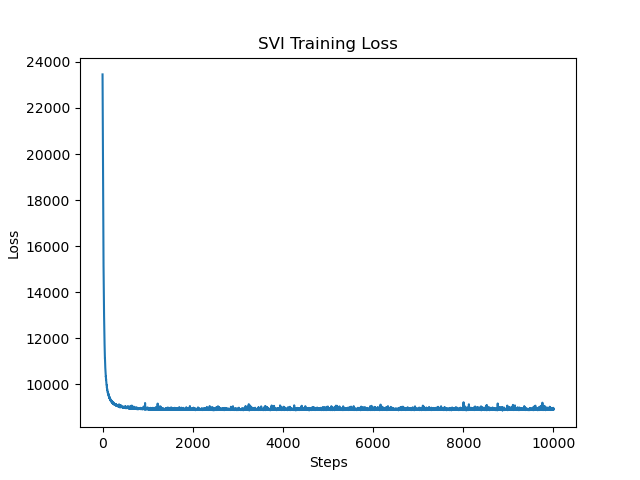
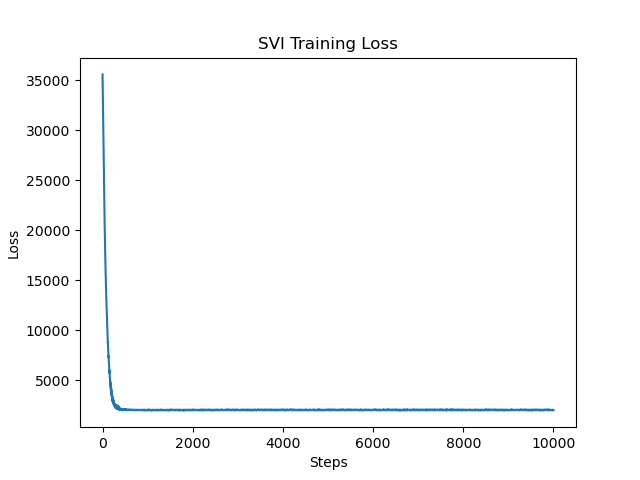
model updated

diff --git a/model.py b/model.py
@@ -19,10 +19,6 @@ from pyro.optim import Adam
 from pyro.infer.autoguide import AutoNormal
 from pyro.infer.autoguide.initialization import init_to_mean, init_to_sample
 
-# LKJcholesky prior for covariance matrix
-# y ~ MVN
-# mu ~ N(0, 1)
-
 
 def probability_function(tumour_content, variant_allele_count, copy_number_state, cancer_cell_fraction):
     """ A function to unify parameters into a probability for observing X number of reads. 
@@ -33,21 +29,13 @@ def probability_function(tumour_content, variant_allele_count, copy_number_state
     Must return a probability (i.e. value between {0, 1})
     """
 
-    # cancer_cell_fraction = cancer_cell_fraction / \
-    #     torch.max(cancer_cell_fraction)
-
     # normal, reference, variant all CN = 2. Our default assumption
-    # copy_number_vector = [2, 2, copy_number_state]
     copy_number_vector = copy_number_state
 
     # this is equivalent to saying, only variant alleles are observed in the variant population
-    # variant_allele_vector = [0, 0, variant_allele_count]
     variant_allele_vector = variant_allele_count
 
     # Pyclone's function
-    c1 = (1-tumour_content)*copy_number_vector
-    c2 = tumour_content*(1-cancer_cell_fraction)*copy_number_vector
-    c3 = tumour_content*cancer_cell_fraction*copy_number_vector
 
     z_constant = (1-tumour_content)*copy_number_vector + \
         tumour_content*(1-cancer_cell_fraction)*copy_number_vector + \
@@ -113,6 +101,14 @@ def model(data):
             "mu", dist.Normal(0, 1))
         
         cluster_means = torch.special.expit(cluster_means)
+        
+        # # for a beta distribution, a gamma prior works. with 0.01, 0.01 makes it uninformative 
+        # # the support for gamma is strictly > 0
+        # beta_alpha = pyro.sample("alpha", dist.Normal(0, 1))
+        # beta_beta = pyro.sample("beta", dist.Normal(0, 1))
+        
+        # beta_alpha = torch.special.expit(beta_alpha)
+        # beta_beta = torch.special.expit(beta_beta)
 
     # -------------------------------------------------------------------------------------------
 
@@ -142,6 +138,11 @@ def model(data):
 
         # using expit, convert normal output to value between [0, 1] since CCF is necessarily a proportion
         cancer_cell_fraction = torch.special.expit(cancer_cell_fraction)
+        
+        
+        # # Model CCF with a beta distribution (its support is [0, 1])
+        # cancer_cell_fraction = pyro.sample("CCF", dist.Beta(beta_alpha[cluster_assignment], beta_beta[cluster_assignment]))
+        
 
         ############# Observed values with NO PRIORS ##############
         # Genotype Values ---------------------
@@ -250,11 +251,11 @@ def main():
     # K clusters
     K = 10
     # -------------------------
-    df = pd.read_csv("./COLO829_somatic_forced_synthetic.tsv",
-                     delimiter="\t", index_col=None)
-    
-    # df = pd.read_csv("./somatic_svs.tsv",
+    # df = pd.read_csv("./COLO829_somatic_forced_synthetic.tsv",
     #                  delimiter="\t", index_col=None)
+    
+    df = pd.read_csv("./somatic_svs.tsv",
+                     delimiter="\t", index_col=None)
 
     # Get params:
     num_svs = df.shape[0]  # get number of rows == number of svs
@@ -266,7 +267,6 @@ def main():
     vaf = df["VAF"].to_numpy()
 
     # Genotype Information
-    # genotype = df["genotype"].to_numpy()
     variant_allele_count = df["variant_allele_count"].to_numpy()
     variant_allele_count = [variant_allele_count*0, variant_allele_count*0, variant_allele_count]
     
